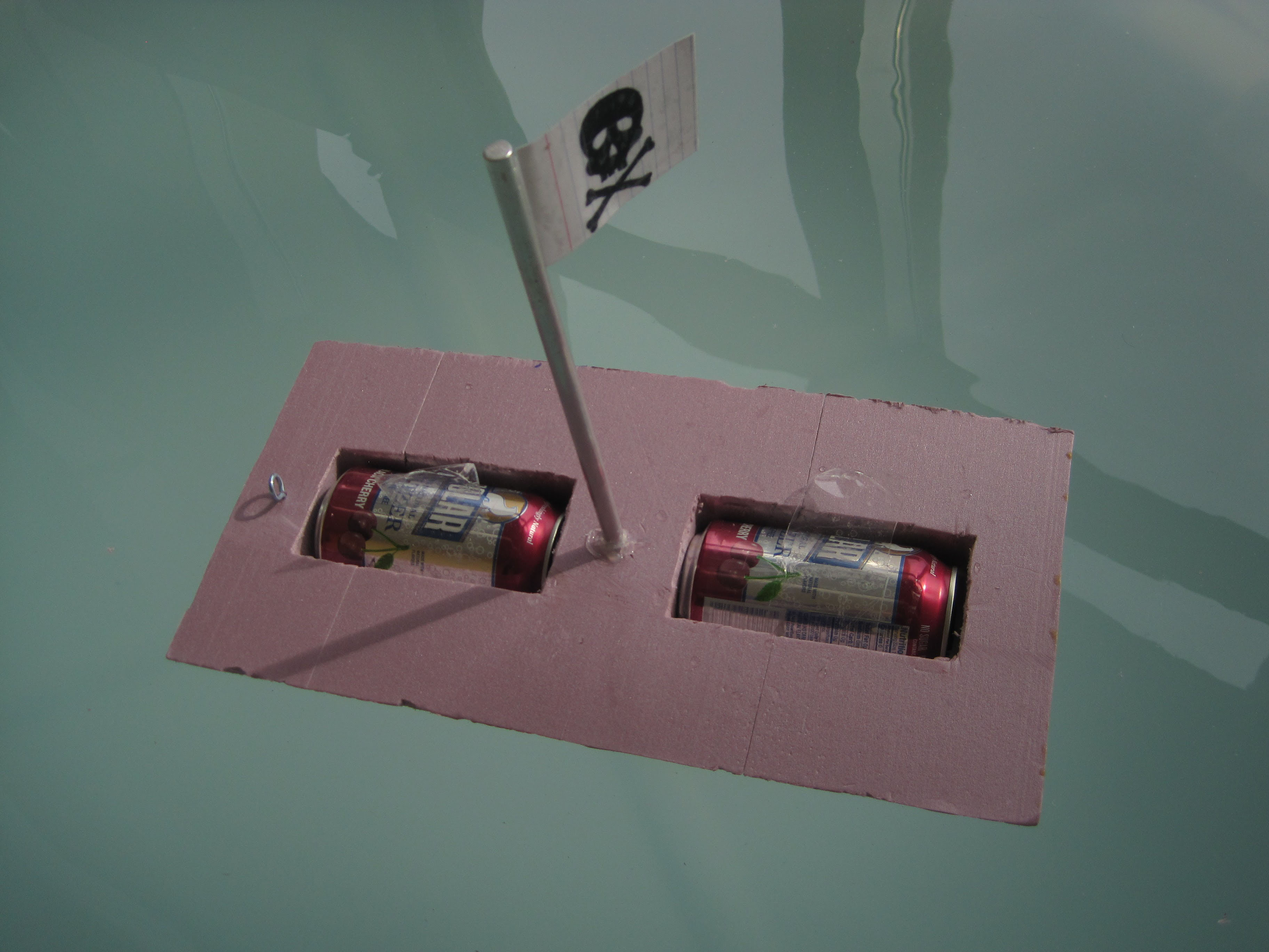
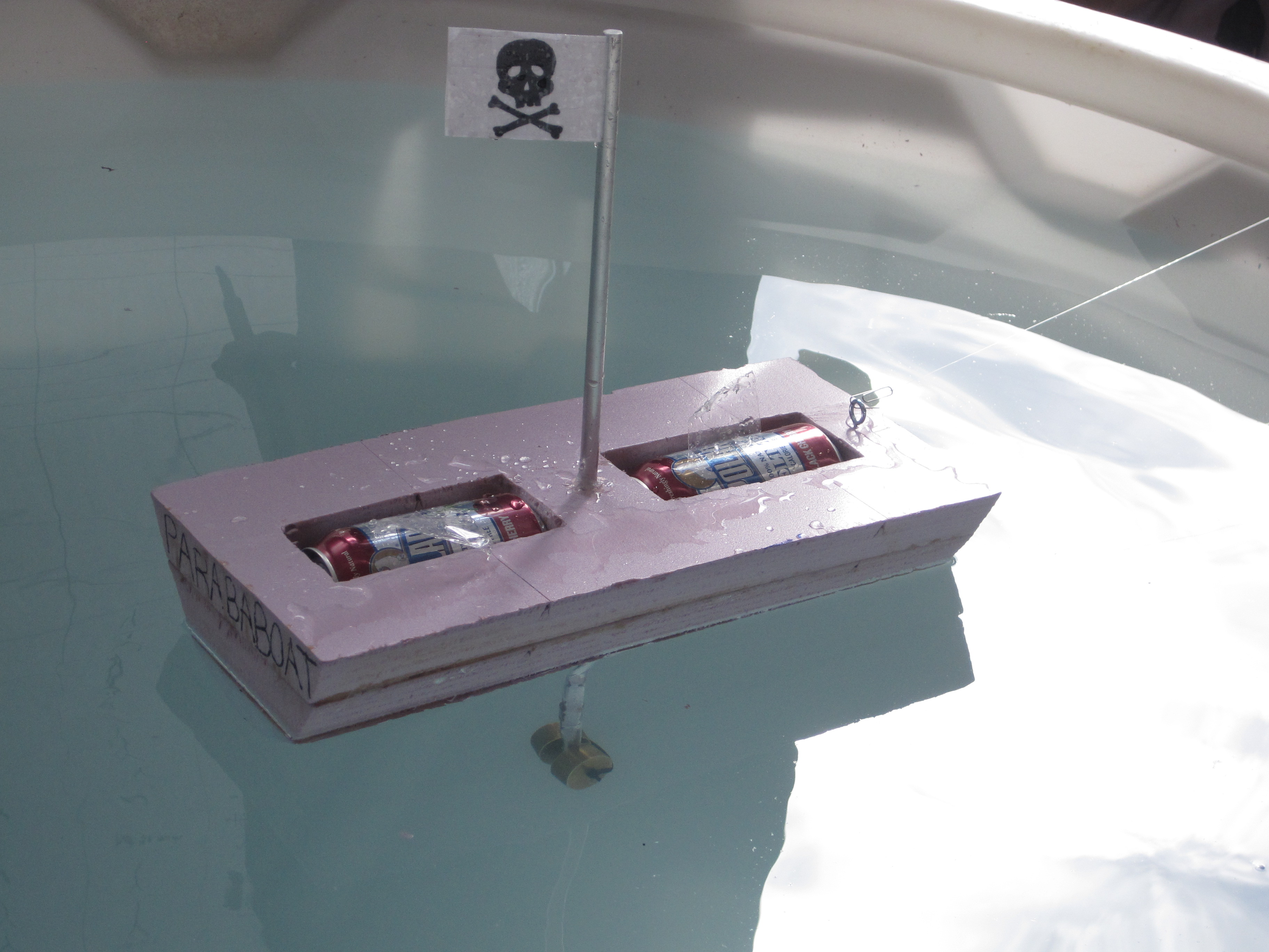
ADD
images for boasts and faces

diff --git a/about.html b/about.html
@@ -89,7 +89,7 @@
                     </li>
                 -->
                     <li>
-                        <a class="page-scroll" href="/img/resume.pdf"target="_blank">Resume</a>
+                        <a class="page-scroll" href="resume.pdf"target="_blank">Resume</a>
                     </li>
                 </ul>
             </div>
@@ -111,103 +111,13 @@
 			<div class="row">
 				<div class="col-md-8 col-md-offset-2">
 					<div class="author">
-						<div class="author-inner animate-box" style="background-image: url(images/person3.jpg);">
+						<div class="author-inner animate-box" style="background-image: url(images/aboutme.jpg);">
 						</div>
 						<div class="desc animate-box">
-							<span>Web Designer &amp; Developer</span>
-							<h3>Mike Airways</h3>
+							<span>Engineering &amp; Design student</span>
+							<h3>Izzy Harrison</h3>
 							<p>Far far away, behind the word mountains, far from the countries Vokalia and Consonantia, there live the blind texts. Separated they live in Bookmarksgrove right at the coast of the Semantics, a large language ocean.</p>
 							<p>Far from the countries Vokalia and Consonantia, there live the blind texts. Separated they live in Bookmarksgrove right at the coast of the Semantics, a large language ocean.</p>
-							<ul class="fh5co-social-icons">
-								<li><a href="#"><i class="icon-facebook"></i></a></li>
-								<li><a href="#"><i class="icon-twitter"></i></a></li>
-								<li><a href="#"><i class="icon-dribbble"></i></a></li>
-								<li><a href="#"><i class="icon-github"></i></a></li>
-							</ul>
-						</div>
-					</div>
-					<div class="row">
-						<div class="col-md-12">
-							<h3 class="title animate-box">My Services</h3>
-						</div>
-						<div class="col-md-6 col-sm-6">
-							<div class="feature-center animate-box" data-animate-effect="fadeIn">
-								<span class="icon">
-									<i class="icon-brush"></i>
-								</span>
-								<h3>Web Design</h3>
-								<p>Far far away, behind the word mountains, far from the countries Vokalia and Consonantia, there live the blind texts. Separated they live in Bookmarksgrove</p>
-								<p><a href="#" class="btn btn-primary btn-outline">Learn More</a></p>
-							</div>
-						</div>
-						<div class="col-md-6 col-sm-6">
-							<div class="feature-center animate-box" data-animate-effect="fadeIn">
-								<span class="icon">
-									<i class="icon-cog"></i>
-								</span>
-								<h3>Web Development</h3>
-								<p>Far far away, behind the word mountains, far from the countries Vokalia and Consonantia, there live the blind texts. Separated they live in Bookmarksgrove</p>
-								<p><a href="#" class="btn btn-primary btn-outline">Learn More</a></p>
-							</div>
-						</div>
-
-						<div class="col-md-6 col-sm-6">
-							<div class="feature-center animate-box" data-animate-effect="fadeIn">
-								<span class="icon">
-									<i class="icon-briefcase"></i>
-								</span>
-								<h3>Branding</h3>
-								<p>Far far away, behind the word mountains, far from the countries Vokalia and Consonantia, there live the blind texts. Separated they live in Bookmarksgrove</p>
-								<p><a href="#" class="btn btn-primary btn-outline">Learn More</a></p>
-							</div>
-						</div>
-						<div class="col-md-6 col-sm-6">
-							<div class="feature-center animate-box" data-animate-effect="fadeIn">
-								<span class="icon">
-									<i class="icon-camera"></i>
-								</span>
-								<h3>Photography</h3>
-								<p>Far far away, behind the word mountains, far from the countries Vokalia and Consonantia, there live the blind texts. Separated they live in Bookmarksgrove</p>
-								<p><a href="#" class="btn btn-primary btn-outline">Learn More</a></p>
-							</div>
-						</div>
-
-						<div class="col-md-12">
-							<h3 class="title animate-box">My Skills</h3>
-							<div class="row">
-								<div class="col-md-6 animate-box skills">
-									<h3>Designing</h3>
-									<div class="progress">
-									   <div class="progress-bar" role="progressbar" aria-valuenow="100" aria-valuemin="0" aria-valuemax="100" style="width:100%">
-									      100%
-									   </div>
-									</div>
-								</div>
-								<div class="col-md-6 animate-box skills">
-									<h3>HTML5/CSS3</h3>
-									<div class="progress">
-									   <div class="progress-bar" role="progressbar" aria-valuenow="95" aria-valuemin="0" aria-valuemax="100" style="width:95%">
-									      95%
-									   </div>
-									</div>
-								</div>
-								<div class="col-md-6 animate-box skills">
-									<h3>jQuery</h3>
-									<div class="progress">
-									   <div class="progress-bar" role="progressbar" aria-valuenow="80" aria-valuemin="0" aria-valuemax="100" style="width:80%">
-									      80%
-									   </div>
-									</div>
-								</div>
-								<div class="col-md-6 animate-box skills">
-									<h3>WordPress</h3>
-									<div class="progress">
-									   <div class="progress-bar" role="progressbar" aria-valuenow="90" aria-valuemin="0" aria-valuemax="100" style="width:90%">
-									      90%
-									   </div>
-									</div>
-								</div>
-							</div>
 						</div>
 					</div>
 				</div>
@@ -215,34 +125,15 @@
 		</div>
 	</div>
 
-	<div id="fh5co-started">
-		<div class="container">
-			<div class="row animate-box">
-				<div class="col-md-8 col-md-offset-2 text-center fh5co-heading">
-					<h2>Get Started</h2>
-					<p>We create beautiful themes for your site behind the word mountains, far from the countries Vokalia and Consonantia, there live the blind texts.</p>
-					<p><a href="#" class="btn btn-primary">Let's work together</a></p>
-				</div>
-			</div>
-		</div>
-	</div>
+	
 
 	<footer id="fh5co-footer" role="contentinfo">
 		<div class="container">
 			<div class="row copyright">
-				<div class="col-md-12 text-center">
-					<p>
-						<small class="block">&copy; 2016 Free HTML5. All Rights Reserved.</small> 
-						<small class="block">Designed by <a href="http://freehtml5.co/" target="_blank">FreeHTML5.co</a> Demo Images: <a href="http://unsplash.co/" target="_blank">Unsplash</a> &amp; <a href="http://blog.gessato.com/" target="_blank">Gessato</a></small>
-					</p>
-					
-					<ul class="fh5co-social-icons">
-						<li><a href="#"><i class="icon-twitter"></i></a></li>
-						<li><a href="#"><i class="icon-facebook"></i></a></li>
-						<li><a href="#"><i class="icon-linkedin"></i></a></li>
-						<li><a href="#"><i class="icon-dribbble"></i></a></li>
-					</ul>
-					
+				<div class="col-md-8 col-md-offset-2 text-center fh5co-heading">
+					<h2>Contact </h2>
+					<p>izzy@students.olin.edu</p>
+					<p>831-332-1159</p>	
 				</div>
 			</div>
 

diff --git a/boats_detail.html b/boats_detail.html
@@ -89,7 +89,7 @@
                     </li>
                 -->
                     <li>
-                        <a class="page-scroll" href="/img/resume.pdf"target="_blank">Resume</a>
+                        <a class="page-scroll" href="resume.pdf"target="_blank">Resume</a>
                     </li>
                 </ul>
             </div>
@@ -113,19 +113,22 @@
 			</div>
 			<div class="row">
 				<div class="col-md-8 col-md-offset-2">
-					<p class="animate-box"><img src="images/project-3.jpg" class="img-responsive" alt="Free HTML5 Template by FreeHTML5.co"></p>
-					<p class="animate-box"><img src="images/toolwall3.jpg" class="img-responsive" alt="Free HTML5 Template by FreeHTML5.co"></p>
+					<p class="animate-box"><img src="images/project-8.jpg" class="img-responsive" alt="Free HTML5 Template by FreeHTML5.co"></p>
+					<p class="animate-box"><img src="images/boats1.jpg" class="img-responsive" alt="Free HTML5 Template by FreeHTML5.co"></p>
+					<p class="animate-box"><img src="images/boats2.png" class="img-responsive" alt="Free HTML5 Template by FreeHTML5.co"></p>
+					<p class="animate-box"><img src="images/boats3.png" class="img-responsive" alt="Free HTML5 Template by FreeHTML5.co"></p>
+				
 				
 
 					<div class="row row-pt-md portfolio-navigation">
 						<div class="col-xs-4 text-left">
-							<a href="gardenai_detail.html" class="btn btn-primary btn-outline"><i class="icon-chevron-left"></i> Prev </a>
+							<a href="faces_detail.html" class="btn btn-primary btn-outline"><i class="icon-chevron-left"></i> Prev </a>
 						</div>
 						<div class="col-xs-4 text-center">
-							<a href="#" class="btn btn-primary btn-outline"><i class="icon-grid2"></i> View All</a>
+							<a href="work.html" class="btn btn-primary btn-outline"><i class="icon-grid2"></i> View All</a>
 						</div>
 						<div class="col-xs-4 text-right">
-							<a href="fish_detail.html" class="btn btn-primary btn-outline">Next <i class="icon-chevron-right"></i></a>
+							<a href="muon_detail.html" class="btn btn-primary btn-outline">Next <i class="icon-chevron-right"></i></a>
 						</div>
 					</div>
 				</div>

diff --git a/faces_detail.html b/faces_detail.html
@@ -89,7 +89,7 @@
                     </li>
                 -->
                     <li>
-                        <a class="page-scroll" href="/img/resume.pdf"target="_blank">Resume</a>
+                        <a class="page-scroll" href="resume.pdf"target="_blank">Resume</a>
                     </li>
                 </ul>
             </div>
@@ -113,19 +113,19 @@
 			</div>
 			<div class="row">
 				<div class="col-md-8 col-md-offset-2">
-					<p class="animate-box"><img src="images/project-3.jpg" class="img-responsive" alt="Free HTML5 Template by FreeHTML5.co"></p>
-					<p class="animate-box"><img src="images/toolwall3.jpg" class="img-responsive" alt="Free HTML5 Template by FreeHTML5.co"></p>
+					<p class="animate-box"><img src="images/trainingsetexamples.png" class="img-responsive" alt="Free HTML5 Template by FreeHTML5.co"></p>
+					<p class="animate-box"><img src="images/eigenfaceexample.png" class="img-responsive" alt="Free HTML5 Template by FreeHTML5.co"></p>
 				
 
 					<div class="row row-pt-md portfolio-navigation">
 						<div class="col-xs-4 text-left">
-							<a href="gardenai_detail.html" class="btn btn-primary btn-outline"><i class="icon-chevron-left"></i> Prev </a>
+							<a href="eventposters_detail.html" class="btn btn-primary btn-outline"><i class="icon-chevron-left"></i> Prev </a>
 						</div>
 						<div class="col-xs-4 text-center">
-							<a href="#" class="btn btn-primary btn-outline"><i class="icon-grid2"></i> View All</a>
+							<a href="work.html" class="btn btn-primary btn-outline"><i class="icon-grid2"></i> View All</a>
 						</div>
 						<div class="col-xs-4 text-right">
-							<a href="fish_detail.html" class="btn btn-primary btn-outline">Next <i class="icon-chevron-right"></i></a>
+							<a href="boats_detail.html" class="btn btn-primary btn-outline">Next <i class="icon-chevron-right"></i></a>
 						</div>
 					</div>
 				</div>

diff --git a/3dscanner_detail.html b/3dscanner_detail.html
@@ -89,7 +89,7 @@
                     </li>
                 -->
                     <li>
-                        <a class="page-scroll" href="/img/resume.pdf"target="_blank">Resume</a>
+                        <a class="page-scroll" href="resume.pdf"target="_blank">Resume</a>
                     </li>
                 </ul>
             </div>
@@ -113,8 +113,8 @@
 			</div>
 			<div class="row">
 				<div class="col-md-8 col-md-offset-2">
-					<p class="animate-box"><img src="images/project-3.jpg" class="img-responsive" alt="Free HTML5 Template by FreeHTML5.co"></p>
-					<p class="animate-box"><img src="images/toolwall3.jpg" class="img-responsive" alt="Free HTML5 Template by FreeHTML5.co"></p>
+					<p class="animate-box"><img src="images/3dscanner.jpg" class="img-responsive" alt="Free HTML5 Template by FreeHTML5.co"></p>
+					<p class="animate-box"><img src="images/project-6.jpg" class="img-responsive" alt="Free HTML5 Template by FreeHTML5.co"></p>
 				
 
 					<div class="row row-pt-md portfolio-navigation">

diff --git a/gardenai_detail.html b/gardenai_detail.html
@@ -89,7 +89,7 @@
                     </li>
                 -->
                     <li>
-                        <a class="page-scroll" href="/img/resume.pdf"target="_blank">Resume</a>
+                        <a class="page-scroll" href="resume.pdf"target="_blank">Resume</a>
                     </li>
                 </ul>
             </div>
@@ -115,8 +115,8 @@
 			</div>
 			<div class="row">
 				<div class="col-md-8 col-md-offset-2">
+					<p class="animate-box"><img src="images/expogardenai.jpg" class="img-responsive" alt="Free HTML5 Template by FreeHTML5.co"></p>
 					<p class="animate-box"><img src="images/project-2.jpg" class="img-responsive" alt="Free HTML5 Template by FreeHTML5.co"></p>
-					
 
 					<div class="row row-pt-md portfolio-navigation">
 						<div class="col-xs-4 text-left">

diff --git a/work.html b/work.html
@@ -89,7 +89,7 @@
                     </li>
                 -->
                     <li>
-                        <a class="page-scroll" href="/img/resume.pdf"target="_blank">Resume</a>
+                        <a class="page-scroll" href="resume.pdf"target="_blank">Resume</a>
                     </li>
                 </ul>
             </div>
@@ -123,7 +123,7 @@
 							<div class="inner">
 								<div class="desc">
 									<h3>garden.ai</h3>
-									<span class="cat">Integrated (in Progress)</span>
+									<span class="cat">Integrated </span>
 								</div>
 							</div>
 						</div>

diff --git a/eventposters_detail.html b/eventposters_detail.html
@@ -89,7 +89,7 @@
                     </li>
                 -->
                     <li>
-                        <a class="page-scroll" href="/img/resume.pdf"target="_blank">Resume</a>
+                        <a class="page-scroll" href="resume.pdf"target="_blank">Resume</a>
                     </li>
                 </ul>
             </div>

diff --git a/fish_detail.html b/fish_detail.html
@@ -89,7 +89,7 @@
                     </li>
                 -->
                     <li>
-                        <a class="page-scroll" href="/img/resume.pdf"target="_blank">Resume</a>
+                        <a class="page-scroll" href="resume.pdf"target="_blank">Resume</a>
                     </li>
                 </ul>
             </div>

diff --git a/muon_detail.html b/muon_detail.html
@@ -89,7 +89,7 @@
                     </li>
                 -->
                     <li>
-                        <a class="page-scroll" href="/img/resume.pdf"target="_blank">Resume</a>
+                        <a class="page-scroll" href="resume.pdf"target="_blank">Resume</a>
                     </li>
                 </ul>
             </div>

diff --git a/qearoom_detail.html b/qearoom_detail.html
@@ -89,7 +89,7 @@
                     </li>
                 -->
                     <li>
-                        <a class="page-scroll" href="/img/resume.pdf"target="_blank">Resume</a>
+                        <a class="page-scroll" href="resume.pdf"target="_blank">Resume</a>
                     </li>
                 </ul>
             </div>

diff --git a/tools_detail.html b/tools_detail.html
@@ -89,7 +89,7 @@
                     </li>
                 -->
                     <li>
-                        <a class="page-scroll" href="/img/resume.pdf"target="_blank">Resume</a>
+                        <a class="page-scroll" href="resume.pdf"target="_blank">Resume</a>
                     </li>
                 </ul>
             </div>
